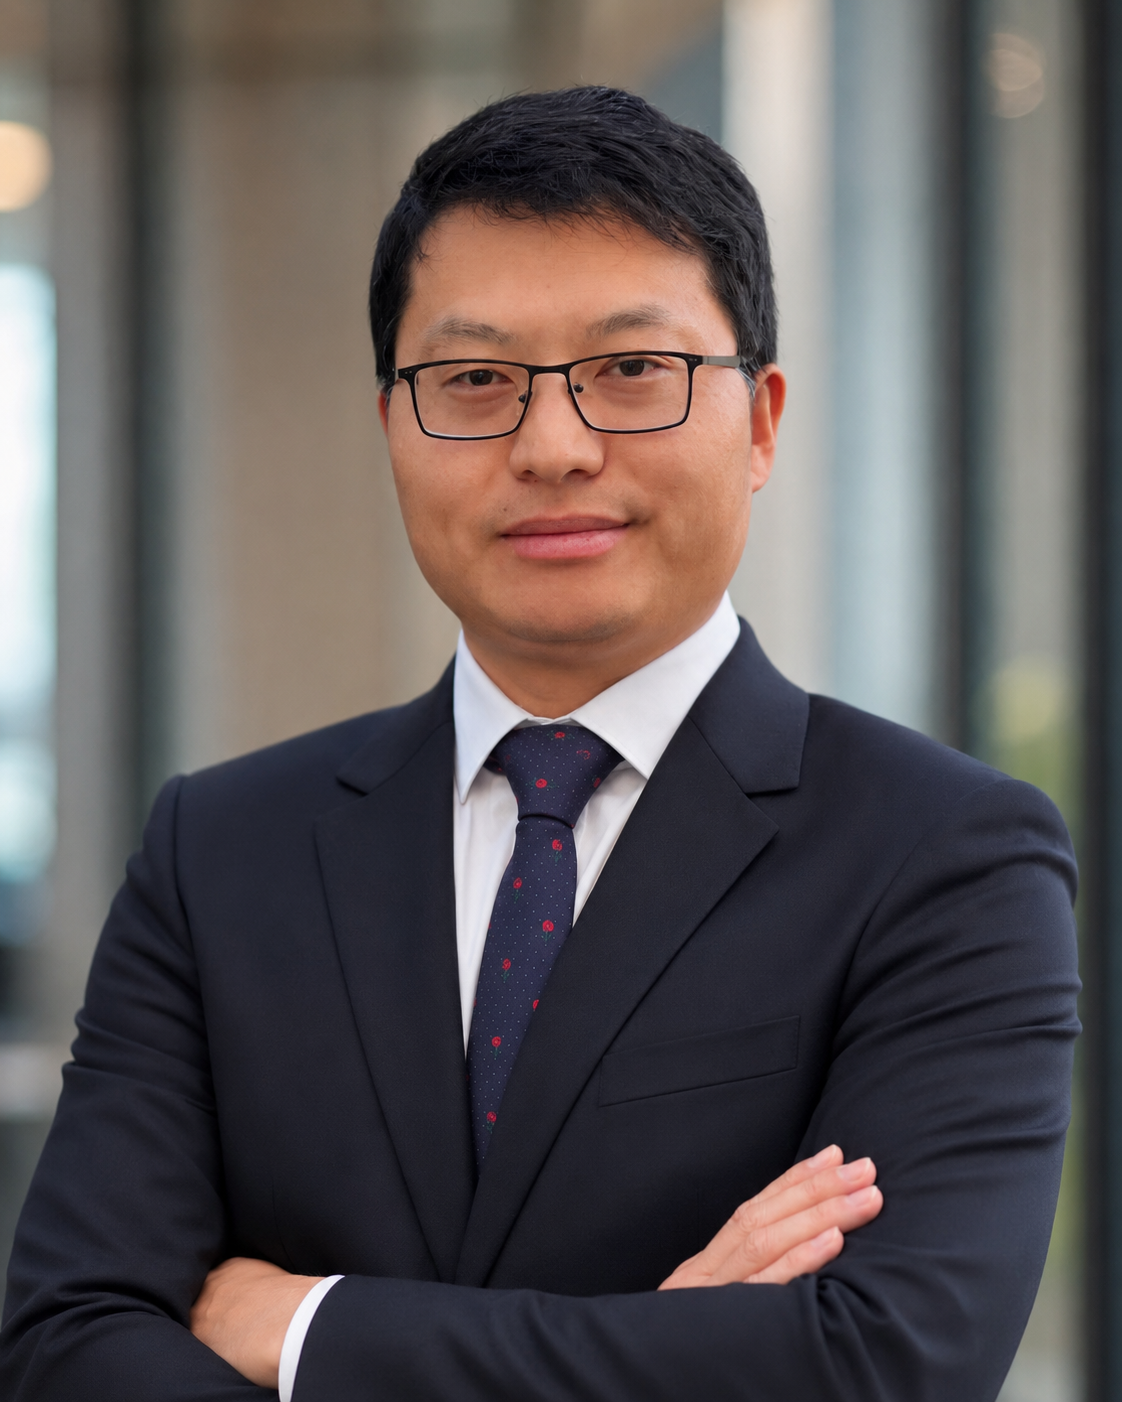
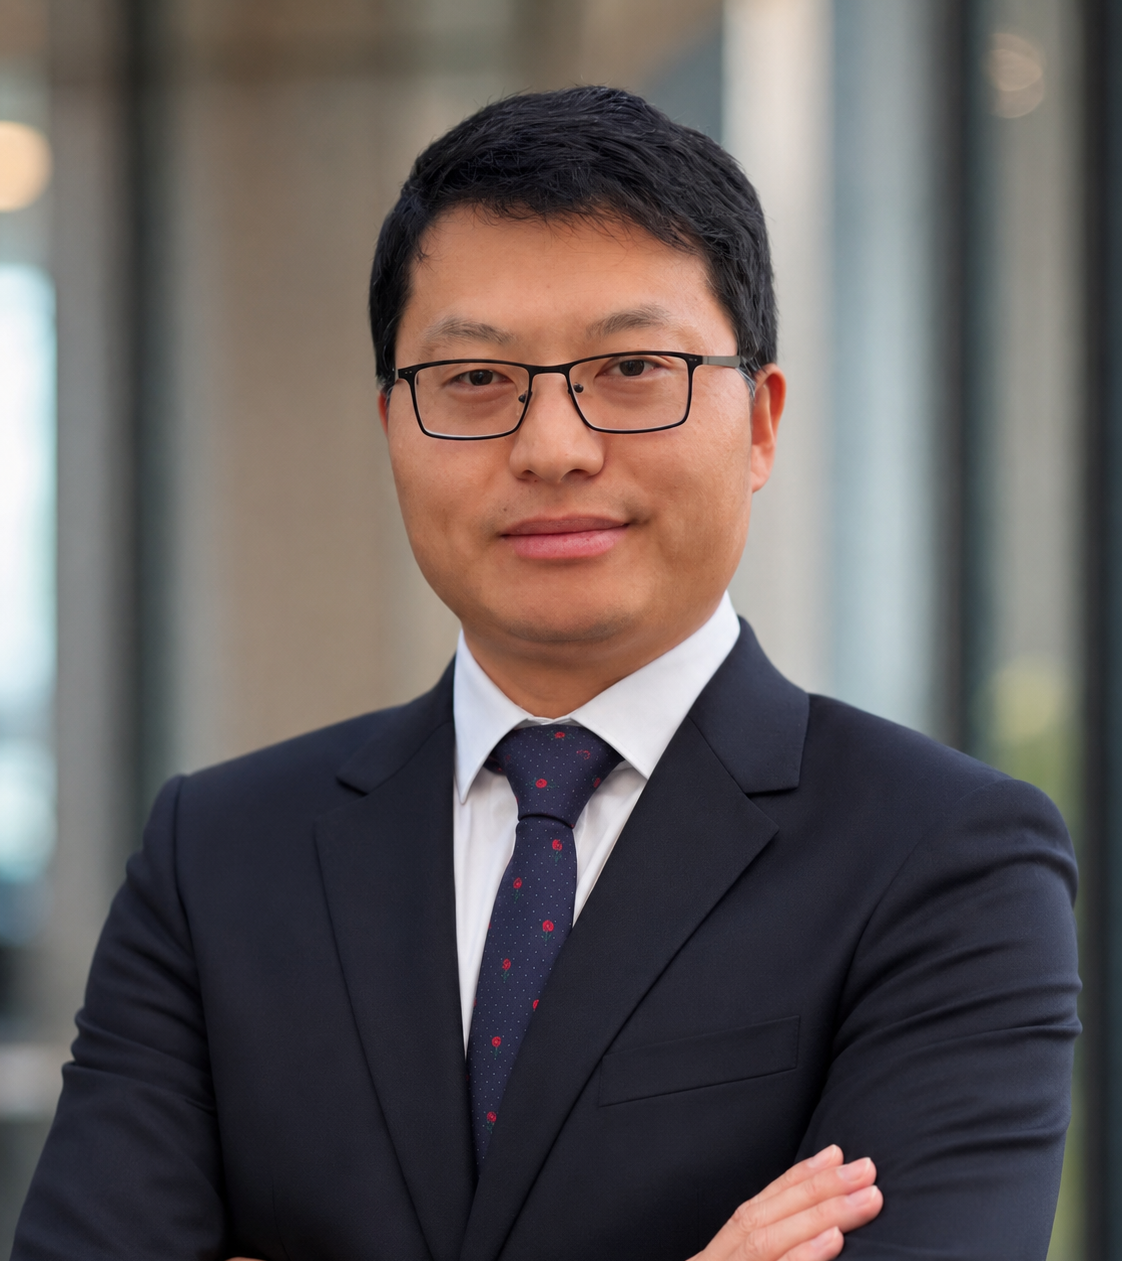
update speaker

diff --git a/index.html b/index.html
@@ -2036,7 +2036,6 @@
                         long-tail scenarios, where vehicles must apply
                         commonsense knowledge, understand spatial relations,
                         infer agent interactions, and make safe decisions.
-                        <br /><br />
                         However, existing AD datasets and benchmarks mainly
                         target perception, prediction, or planning, and provide
                         limited supervision for reasoning over realistic
@@ -2061,7 +2060,6 @@
                         reasoning supervision into VLA training improves
                         planning performance even when textual reasoning outputs
                         are disabled at inference time.
-                        <br /><br />
                         These results establish nuReasoning as a foundation for
                         evaluating and improving robust, interpretable,
                         reasoning-driven AD systems in realistic long-tail
@@ -2090,7 +2088,6 @@
                         high-performing AI teams and coaching AI engineers and
                         applied scientists across both research and product
                         execution.
-                        <br /><br />
                         He is also a recognized technical contributor in
                         autonomous driving and robotics, with 30+ publications
                         and 20+ U.S. patents in the AV and robotics domains.
